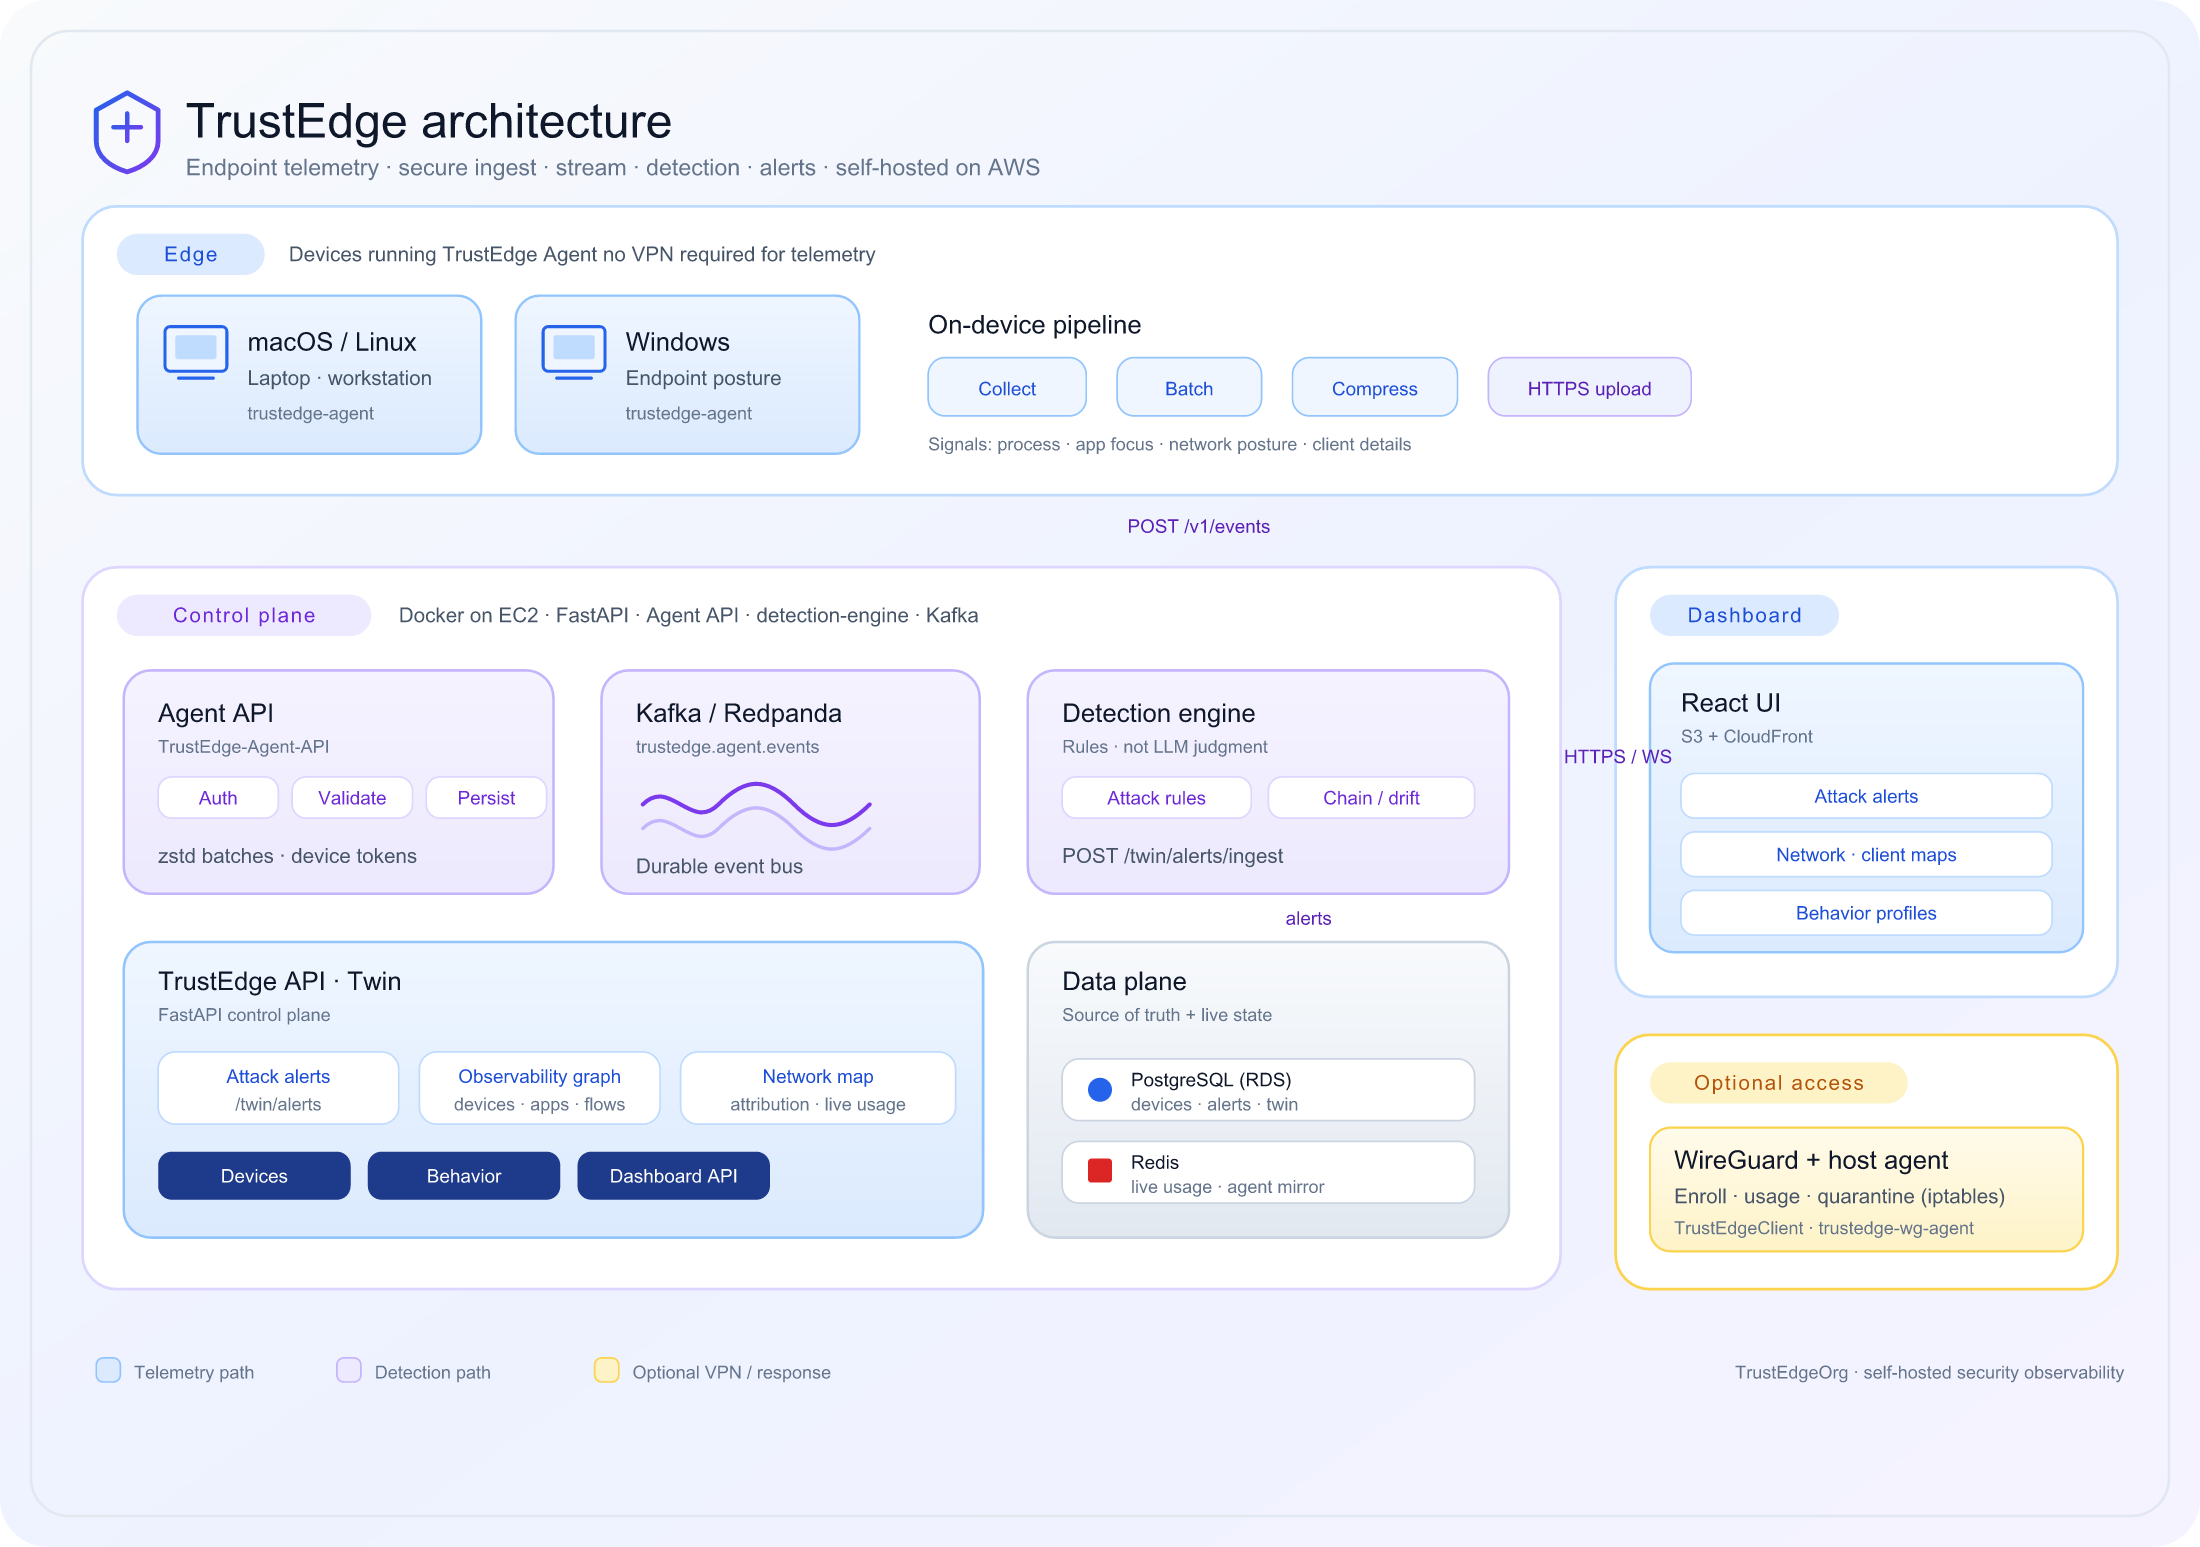
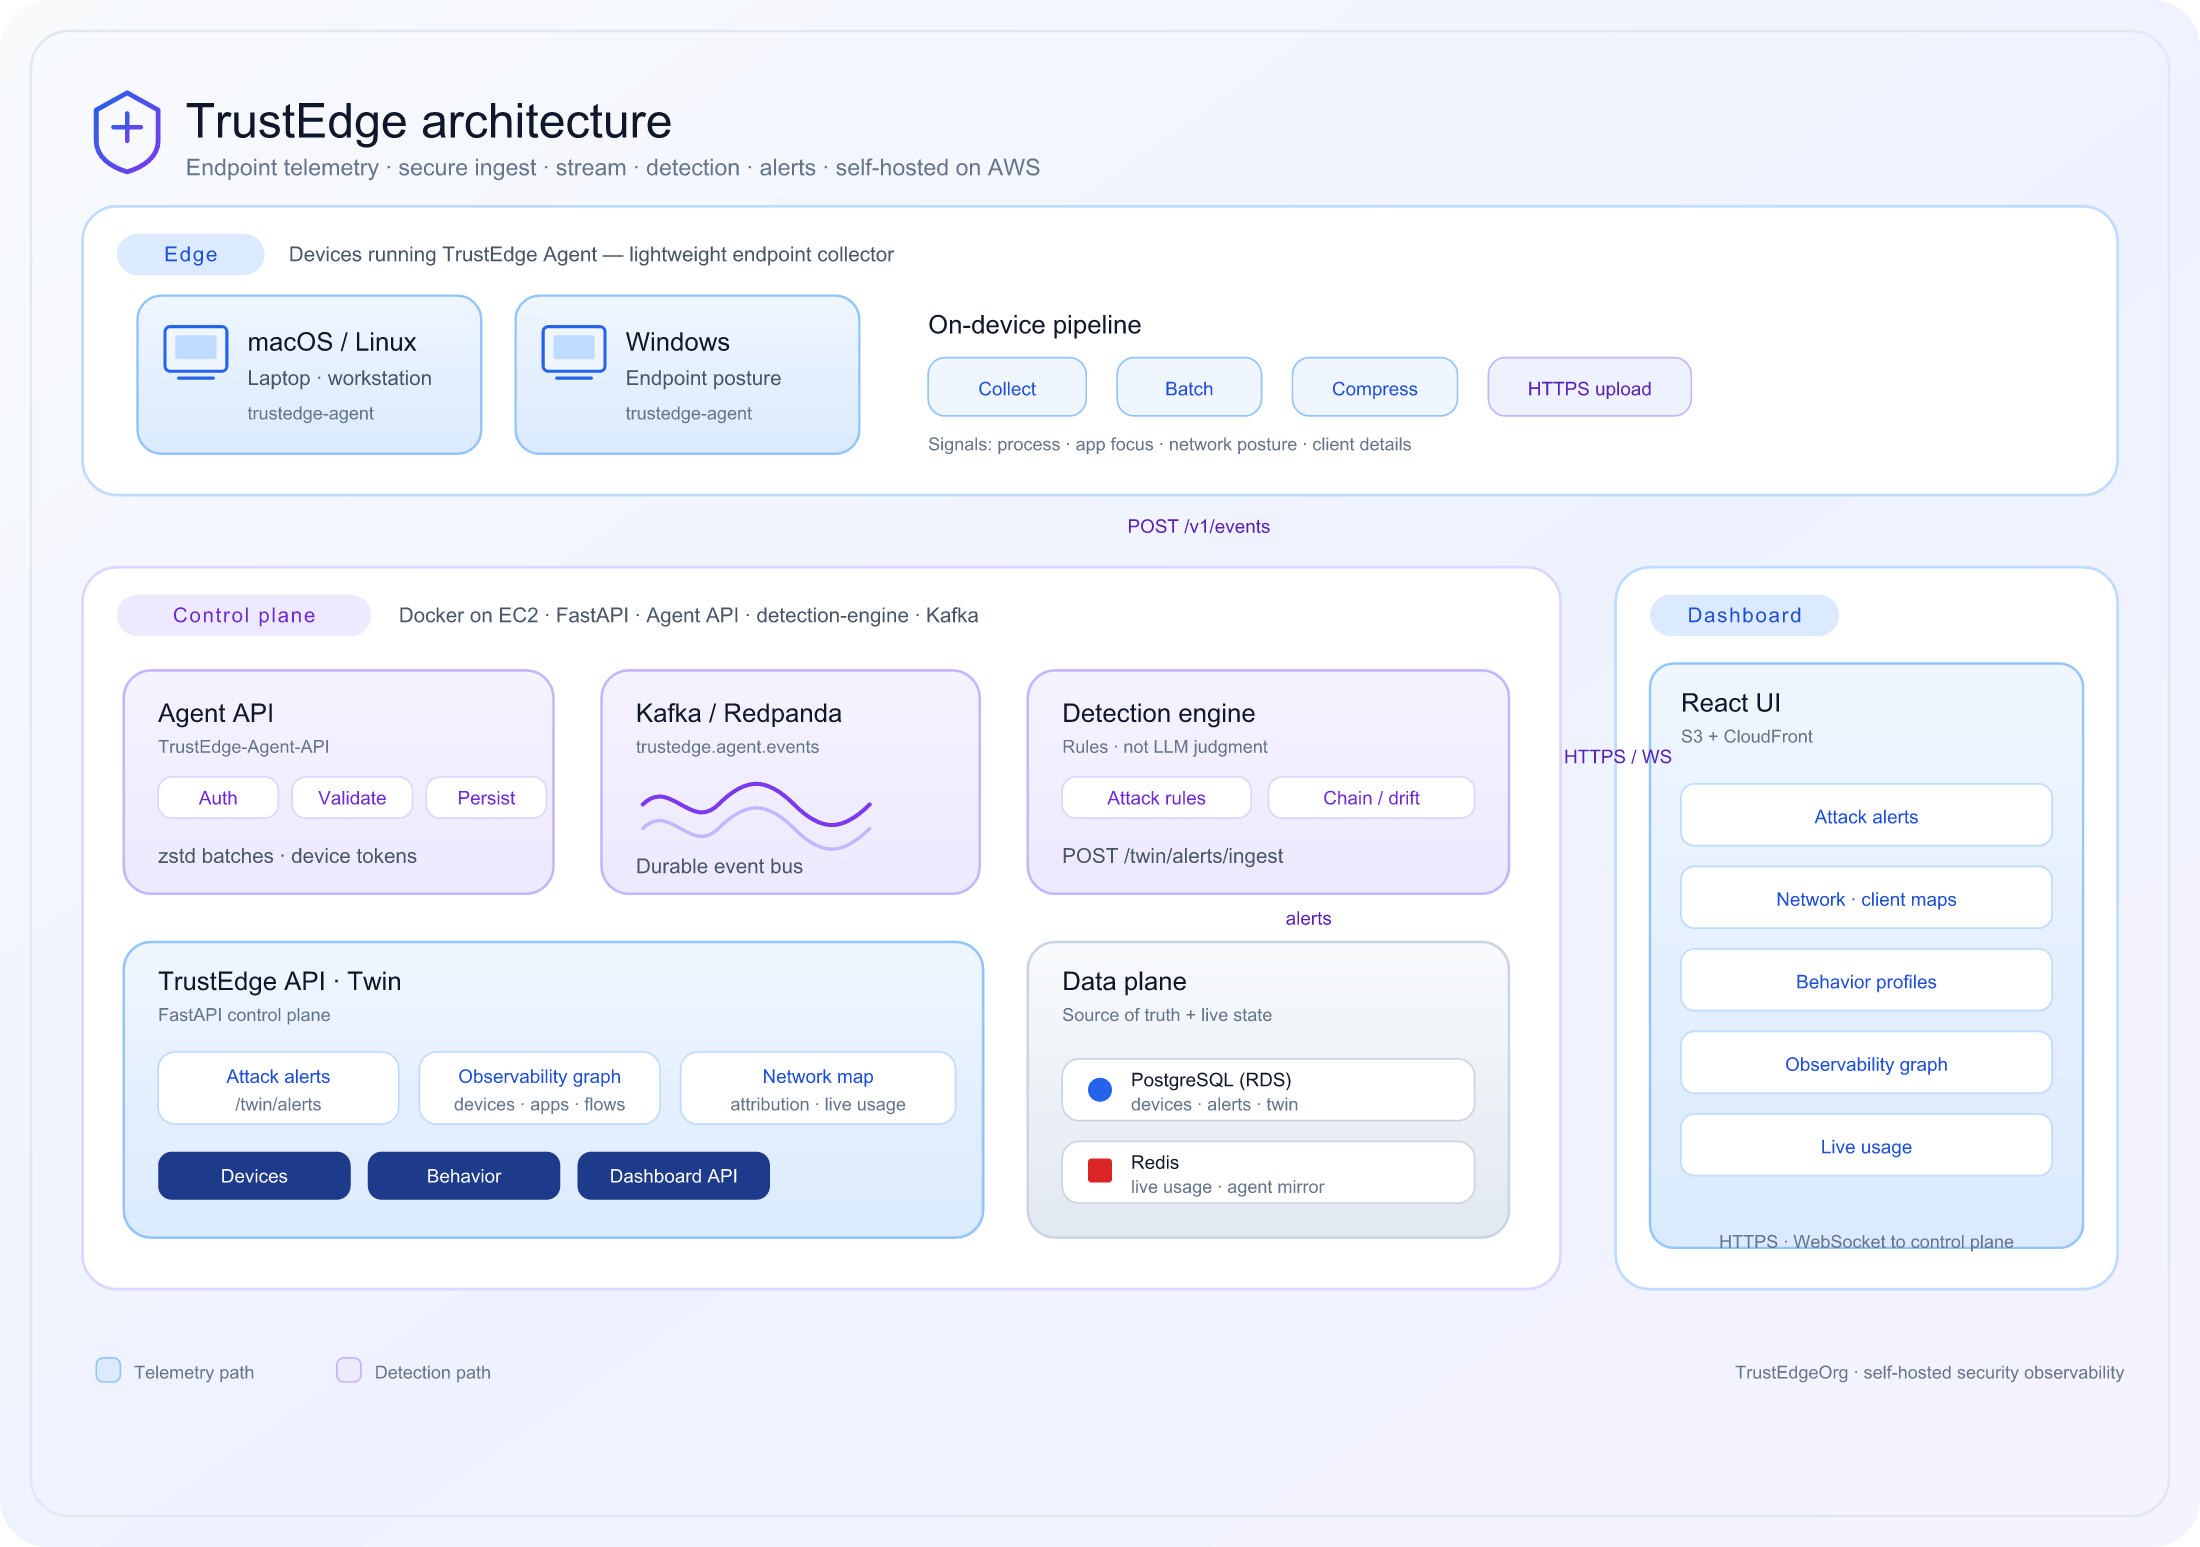
Remove WireGuard and VPN from the org architecture story.
Drop the optional access panel, TrustEdgeClient card, and VPN capability rows so the org profile is endpoint detection only.

Changed region(s): [[0.7418, 0.4964, 0.9582, 0.8378], [0.2782, 0.1551, 0.4018, 0.1862], [0.2473, 0.8688, 0.3709, 0.8998]]

diff --git a/profile/README.md b/profile/README.md
@@ -30,16 +30,15 @@ How the stack fits together — edge collection, secure ingest, stream detection
 | **Detection** | Rules engine — deterministic attack / drift rules |
 | **Control plane** | FastAPI · Twin — alerts, graph, maps, devices |
 | **Dashboard** | React · S3 · CloudFront — operator views |
-| **Host** *(optional)* | WireGuard · wg-agent — enroll / quarantine |
 
 ---
 
 ## <img src="./assets/icon-flow.svg" alt="" width="22" height="22" align="absmiddle" /> Ecosystem map
 
-Four repositories, one detection path. The VPN client is optional and not required for endpoint signal.
+Three repositories, one detection path.
 
 <p align="center">
-  <img src="./assets/ecosystem.svg" alt="TrustEdge ecosystem — Agent, Agent API, TrustEdge, Client" width="1100" />
+  <img src="./assets/ecosystem.svg" alt="TrustEdge ecosystem — Agent, Agent API, TrustEdge" width="1100" />
 </p>
 
 | Repository | Role |
@@ -47,7 +46,6 @@ Four repositories, one detection path. The VPN client is optional and not requir
 | [**TrustEdge**](https://github.com/TrustEdgeOrg/TrustEdge) | Control plane · dashboard · detection |
 | [**TrustEdge-Agent**](https://github.com/TrustEdgeOrg/TrustEdge-Agent) | Endpoint collector (Go) |
 | [**TrustEdge-Agent-API**](https://github.com/TrustEdgeOrg/TrustEdge-Agent-API) | Ingest · validate · Kafka |
-| [**TrustEdgeClient**](https://github.com/TrustEdgeOrg/TrustEdgeClient) | Optional WireGuard enroll client |
 
 ---
 
@@ -78,8 +76,6 @@ Canonical twin model for impact analysis, blast radius, and RCA — entities and
 | Endpoint telemetry | TrustEdge Agent → Agent API → stream |
 | Detection | Kafka-backed rules → attack alerts |
 | Observability | Network map · client map · behavior drift · graph |
-| Secure access *(optional)* | WireGuard enrollment · IP pool |
-| Enforcement *(optional)* | Host agent quarantine (iptables) |
 | AI operations | Optional summaries (OpenAI / Ollama / template) |
 | Production ops | CloudWatch · Alembic · ECR deploy |
 